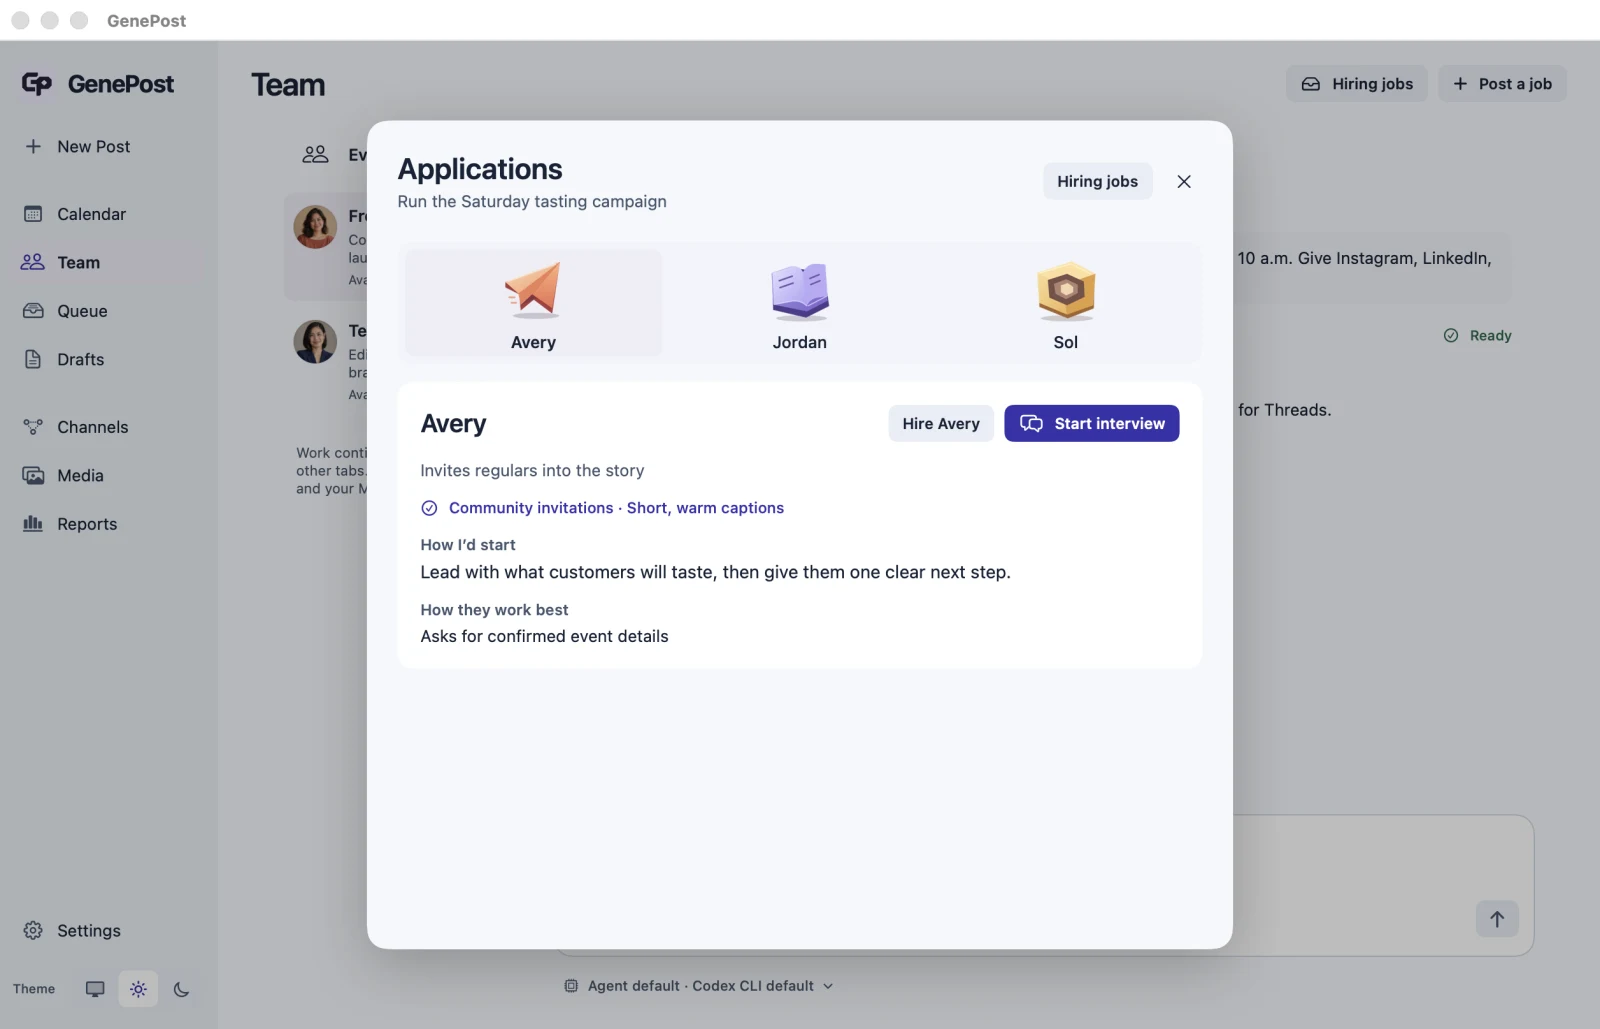
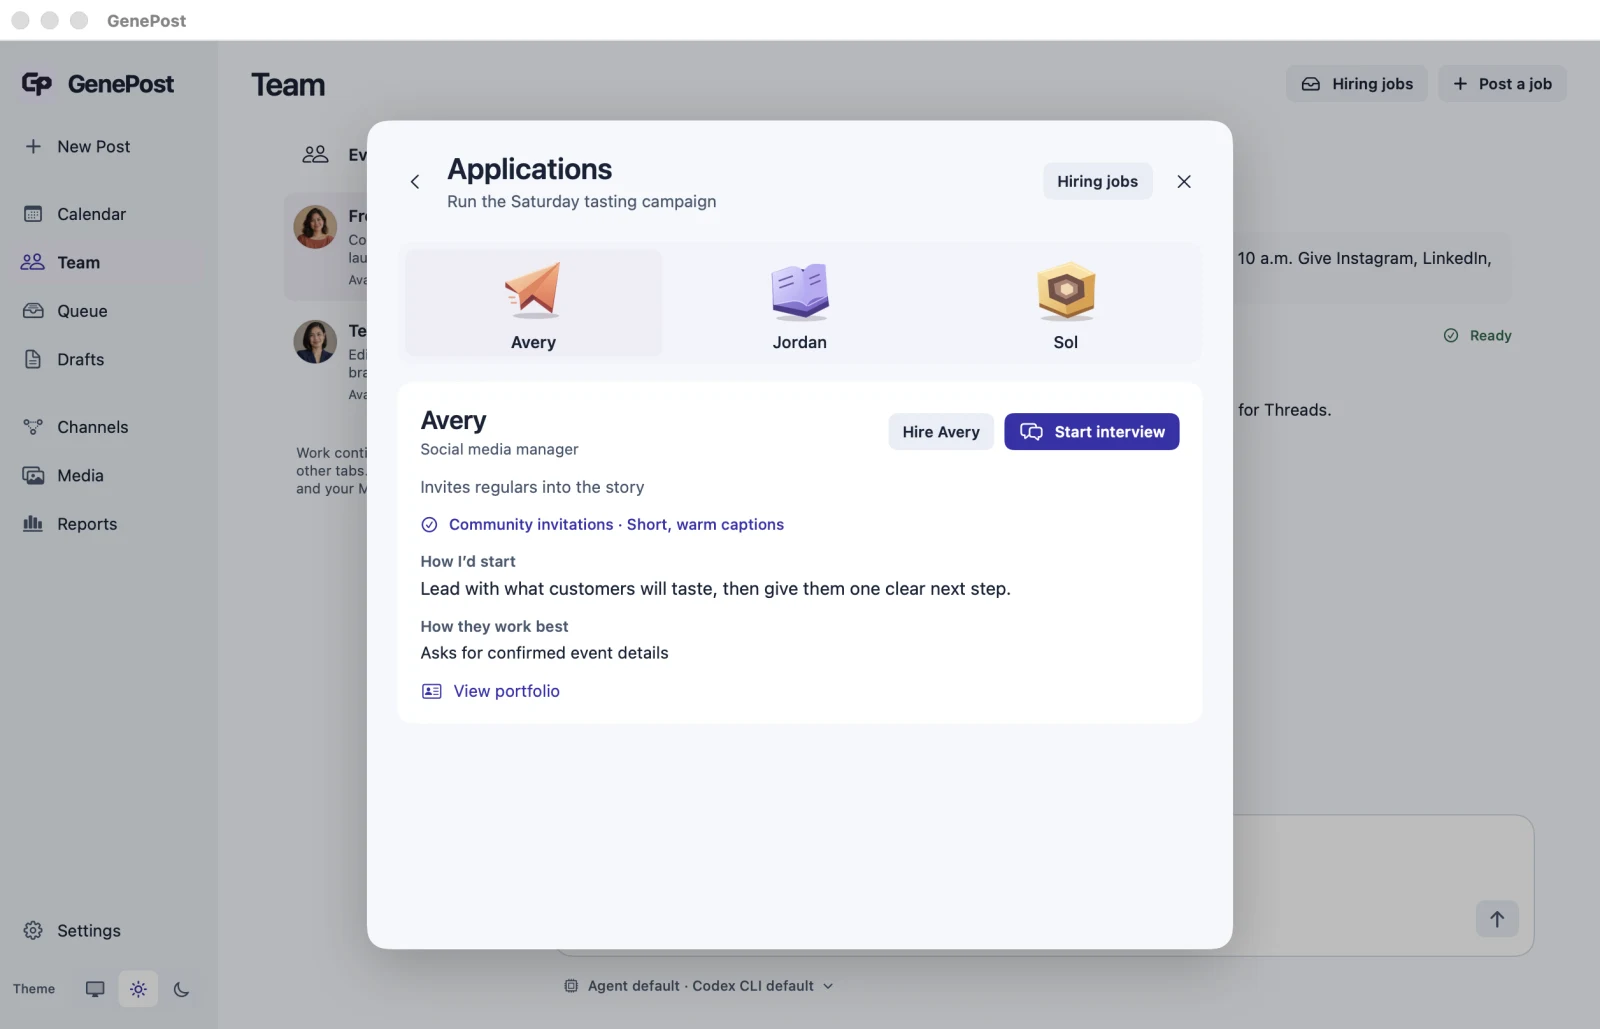
Add specialist portfolios to GenePost hiring

Changed region(s): [[0.25, 0.4043, 0.625, 0.6842], [0.5625, 0.3732, 0.75, 0.4354], [0.25, 0.1555, 0.4375, 0.2177]]

diff --git a/assets/site.js b/assets/site.js
@@ -12,14 +12,7 @@ const screens = [
   ['settings', 'Settings', 'settings'],
 ];
 const platformNames = { instagram: 'Instagram', linkedin: 'LinkedIn', threads: 'Threads', facebook: 'Facebook', x: 'X' };
-const candidates = [
-  { name: 'Avery', mark: 'fold', specialty: 'Community copy', sample: 'I’d lead with what people can do together, then give them one clear way to join.' },
-  { name: 'Jordan', mark: 'folio', specialty: 'Founder stories', sample: 'I’d ask for one moment from your day that explains why you’re doing this.' },
-  { name: 'Quinn', mark: 'spark', specialty: 'Short hooks', sample: 'I’d write three first lines and keep the one you’d actually say out loud.' },
-  { name: 'Mika', mark: 'grid', specialty: 'Content planning', sample: 'I’d plan the announcement and reminder together so each post has a purpose.' },
-  { name: 'Sol', mark: 'lens', specialty: 'Visual direction', sample: 'I’d choose one photo that shows the work, then write a caption that adds context.' },
-  { name: 'Remy', mark: 'reply', specialty: 'Community replies', sample: 'I’d turn the questions people keep asking into short, useful replies in your voice.' },
-];
+const candidates = JSON.parse(document.querySelector('#demo-specialists').textContent);
 const campaigns = {
   coffee: {
     name: 'Morrow Coffee', idea: 'Invite people to Saturday’s coffee tasting', job: 'Tasting campaign',
@@ -120,6 +113,9 @@ const walkthrough = [
   ['Open Team', '.demo-sidebar [data-value="team"]', { chapter: 'hire' }],
   ['Post a job', '[data-action="post-job"]'],
   ['Post the role', '[data-submit="post-role"] button[type="submit"]', { hold: 2050 }],
+  ['Browse portfolios', '[data-action="browse-portfolios"]', { hold: 1000 }],
+  ['Review sample work', '[data-action="select-specialist"][data-value="Sol"]', { hold: 2000 }],
+  ['Return to job', '[data-action="close-portfolios"]', { hold: 750 }],
   ['Review applications', '[data-action="review-applications"]', { hold: 1150 }],
   ['Compare applicants', '[data-action="candidate"][data-value="Jordan"]', { hold: 1650 }],
   ['Start interview', '[data-action="interview"]', { hold: 1200 }],
@@ -196,6 +192,13 @@ function mountDemo(root, preview = false) {
   const heading = (title, extra = '') => '<div class="app-heading"><h2>' + title + '</h2>' + extra + '</div>';
   const brand = () => '<span class="app-brand">' + escapeHTML(state.campaign.name) + '</span>';
   const empty = (glyph, text, button = '') => '<div class="app-empty">' + icon(glyph) + '<p>' + text + '</p>' + button + '</div>';
+  const availableSpecialists = () => candidates.filter(person => !state.team.some(member => member.person.name === person.name));
+
+  function hiringCandidate() {
+    const job = state.hiring;
+    const name = state.hireStep === 'interview' ? job.interviewing : state.hireStep === 'portfolios' ? job.portfolio : job.selected;
+    return candidates.find(person => person.name === name);
+  }
   const upload = () => '<label class="app-button upload">' + icon('upload') +
     'Import media<input type="file" accept="image/*,video/*"></label>';
 
@@ -267,10 +270,11 @@ function mountDemo(root, preview = false) {
             '<div><strong>' + job.applicants.length + ' applications received</strong><small>' + job.applicants.map(person => person.name).join(' · ') + '</small></div>' +
             action('review-applications', 'Review applications', { glyph: 'right', kind: 'app-primary' }) + '</div>'
           : '<p class="application-wait"><span class="application-spinner" aria-hidden="true"></span>Waiting for applications…</p>') +
-        action('team-home', 'Back to Team', { glyph: 'left', kind: 'job-back' }) + '</div>';
+        '<div class="app-row receipt-actions">' + action('team-home', 'Back to Team', { glyph: 'left', kind: 'job-back' }) +
+        action('browse-portfolios', 'Browse portfolios', { glyph: 'drafts' }) + '</div></div>';
     }
     if (state.hireStep === 'applicants') {
-      const candidate = job.applicants.find(person => person.name === job.selected);
+      const candidate = hiringCandidate();
       return heading('Applications', brand()) +
         '<div class="job-context"><p>' + escapeHTML(job.title) + '</p>' +
         action('job-receipt', 'Job post', { glyph: 'left', kind: 'job-back' }) + '</div>' +
@@ -278,24 +282,26 @@ function mountDemo(root, preview = false) {
         job.applicants.map(person => action('candidate', avatar(person) + '<strong>' + person.name + '</strong>',
           { value: person.name, pressed: person.name === candidate.name, kind: 'candidate' })).join('') +
         '</div><section class="candidate-profile" aria-label="Applicant profile">' +
-        '<div class="candidate-meta"><h3>' + candidate.name + '</h3><span>' + candidate.specialty + '</span></div>' +
-        '<div class="candidate-sample"><span>How I’d start</span><p>' + candidate.sample + '</p></div>' +
+        '<div class="candidate-meta"><h3>' + candidate.name + '</h3><span>' + candidate.role + '</span></div>' +
+        '<div class="candidate-sample"><span>How I’d start</span><p>' + escapeHTML(candidate.sampleApproach) + '</p></div>' +
+        '<div class="app-row candidate-actions">' + action('browse-portfolios', 'View portfolio', { value: candidate.name, glyph: 'drafts', kind: 'job-back' }) +
         '<div class="app-row job-actions">' + action('hire', 'Hire ' + candidate.name) +
         action('interview', job.interviews[candidate.name]?.turns.length ? 'Open interview' : 'Start interview',
-          { glyph: 'right', kind: 'app-primary' }) + '</div></section></div>';
+          { glyph: 'right', kind: 'app-primary' }) + '</div></div></section></div>';
     }
+    if (state.hireStep === 'portfolios') return portfolios(job);
     if (state.hireStep === 'interview') {
-      const candidate = job.applicants.find(person => person.name === job.selected);
+      const candidate = hiringCandidate();
       const { draft, turns } = job.interviews[candidate.name];
       const directions = turns.filter(turn => turn.direction);
       return heading('Interview ' + candidate.name, brand()) +
         '<div class="job-context"><p>' + escapeHTML(job.title) + '</p>' +
-        action('review-applications', 'Applications', { glyph: 'left', kind: 'job-back' }) + '</div>' +
+        action('close-interview', job.interviewFrom === 'portfolios' ? 'Portfolios' : 'Applications', { glyph: 'left', kind: 'job-back' }) + '</div>' +
         '<div class="interview-thread app-stack" aria-label="Sample interview">' +
         '<div class="interview-line">' + avatar(candidate) + '<p>What voice should I use for this role?</p></div>' +
         turns.map((turn, index) => '<div class="interview-line interview-you"><p>' + escapeHTML(turn.message) + '</p></div>' +
           '<div class="interview-line"' + (index === turns.length - 1 ? ' data-latest-reply' : '') + '>' +
-          avatar(candidate) + '<p>' + turn.reply + '</p></div>').join('') +
+          avatar(candidate) + '<p>' + escapeHTML(turn.reply) + '</p></div>').join('') +
         (directions.length ? '<div class="interview-setup"><strong>' + icon('check') + 'Setup for this role</strong><ul>' +
           directions.map(turn => '<li>' + escapeHTML(turn.message) + '</li>').join('') + '</ul></div>' : '') + '</div>' +
         '<form class="app-stack interview-form" data-submit="interview-message">' +
@@ -313,10 +319,28 @@ function mountDemo(root, preview = false) {
       (state.team.length
         ? '<div class="team-list">' + state.team.map(({ person, directions }) =>
           '<div class="app-list-row">' + avatar(person) + '<span><strong>' + person.name + '</strong><small>' +
-          person.specialty + '</small>' + (directions.length ? '<small class="team-direction">' + icon('check') +
+          person.role + '</small>' + (directions.length ? '<small class="team-direction">' + icon('check') +
             escapeHTML(directions.join(' ')) + '</small>' : '') + '</span></div>'
         ).join('') + '</div>' + action('screen', 'Brief teammate', { value: 'compose', glyph: 'right' })
         : job ? '' : empty('team', 'Build your team'));
+  }
+
+  function portfolios(job) {
+    const specialist = hiringCandidate();
+    const art = specialist.portfolioImage ? '<img src="' + assets + 'team-marks/' + specialist.portfolioImage +
+      '" alt="Coffee tasting bowls beside bags of beans" width="320" height="180">' : '';
+    return heading('Specialist portfolios', brand()) +
+      '<div class="job-context"><p>' + escapeHTML(job.title) + '</p>' +
+      action('close-portfolios', job.portfoliosFrom === 'applicants' ? 'Applications' : 'Job post', { glyph: 'left', kind: 'job-back' }) + '</div>' +
+      '<div class="applicant-panel"><div class="applicants specialists" role="group" aria-label="Available specialists">' +
+      availableSpecialists().map(person => action('select-specialist', avatar(person) + '<strong>' + person.name + '</strong><small>' + person.role + '</small>',
+        { value: person.name, pressed: person.name === specialist.name, kind: 'candidate' })).join('') + '</div>' +
+      '<section class="candidate-profile" aria-label="Specialist profile"><div class="portfolio-heading"><div class="candidate-meta"><h3>' + specialist.name +
+      '</h3><span>' + specialist.specialty + '</span></div><div class="app-row job-actions">' +
+      action('hire', 'Hire ' + specialist.name) + action('interview', job.interviews[specialist.name] ? 'Open interview' : 'Invite to interview',
+        { glyph: 'right', kind: 'app-primary' }) + '</div></div>' +
+      '<div class="portfolio-work' + (art ? ' with-art' : '') + '">' + art + '<div><span>Sample work</span><h4>' +
+      escapeHTML(specialist.portfolioTitle) + '</h4><p>' + escapeHTML(specialist.portfolioSample) + '</p></div></div></section></div>';
   }
 
   function review() {
@@ -432,9 +456,7 @@ function mountDemo(root, preview = false) {
       if (button.dataset.value === view) button.setAttribute('aria-current', 'page');
       else button.removeAttribute('aria-current');
       if (button.dataset.value === 'team') {
-        const unread = Boolean(state.hiring?.ready && !state.hiring.reviewed);
-        button.toggleAttribute('data-applications-unread', unread);
-        button.setAttribute('aria-label', unread ? 'Team, new applications' : 'Team');
+        updateApplicationBadge(button);
       }
     });
     workspace.innerHTML = views[state.view]() +
@@ -460,6 +482,12 @@ function mountDemo(root, preview = false) {
         { duration: 210, easing: 'cubic-bezier(.16, 1, .3, 1)' }
       );
     }
+  }
+
+  function updateApplicationBadge(button = sidebar.querySelector('[data-value="team"]')) {
+    const unread = Boolean(state.hiring?.ready && !state.hiring.reviewed);
+    button.toggleAttribute('data-applications-unread', unread);
+    button.setAttribute('aria-label', unread ? 'Team, new applications' : 'Team');
   }
 
   function screen(view) {
@@ -574,10 +602,11 @@ function mountDemo(root, preview = false) {
         state.error = 'Add a job title and description';
         return draw();
       }
-      const ranked = [...new Set([...state.campaign.shortlist, ...candidates.map(person => person.name)])];
-      const applicants = ranked.filter(name => !state.team.some(member => member.person.name === name))
-        .slice(0, 3).map(name => candidates.find(person => person.name === name));
-      const job = { title, description, applicants, selected: applicants[0].name, ready: false, reviewed: false, interviews: {} };
+      const available = availableSpecialists();
+      const ranked = [...new Set([...state.campaign.shortlist, ...available.map(person => person.name)])];
+      const applicants = ranked.map(name => available.find(person => person.name === name)).filter(Boolean).slice(0, 3);
+      const job = { title, description, applicants, selected: applicants[0].name, portfolio: available[0].name,
+        ready: false, reviewed: false, interviews: {} };
       const postedWorkspace = state;
       postedWorkspace.hiring = job;
       postedWorkspace.hireStep = 'posted';
@@ -587,10 +616,8 @@ function mountDemo(root, preview = false) {
         job.ready = true;
         if (state !== postedWorkspace) return;
         announcements.textContent = job.applicants.length + ' applications received for ' + job.title;
-        if (state.view !== 'team') {
-          const teamButton = sidebar.querySelector('[data-value="team"]');
-          teamButton.setAttribute('data-applications-unread', '');
-          teamButton.setAttribute('aria-label', 'Team, new applications');
+        if (state.view !== 'team' || !['posted', ''].includes(state.hireStep)) {
+          updateApplicationBadge();
           return;
         }
         const arrival = state.hireStep === 'posted' ? '.application-arrival' : '.team-job';
@@ -611,12 +638,28 @@ function mountDemo(root, preview = false) {
       state.hiring.selected = name;
       draw({ reveal: '.candidate-profile' });
     },
+    'browse-portfolios': name => {
+      const job = state.hiring;
+      if (name) job.portfolio = name;
+      job.portfoliosFrom = state.hireStep;
+      state.hireStep = 'portfolios';
+      draw({ moved: true });
+    },
+    'select-specialist': name => {
+      if (state.hiring.portfolio === name) return;
+      state.hiring.portfolio = name;
+      draw({ reveal: '.portfolio-work' });
+    },
+    'close-portfolios': () => { state.hireStep = state.hiring.portfoliosFrom; draw({ moved: true }); },
     interview: () => {
       const job = state.hiring;
-      job.interviews[job.selected] ??= { draft: '', turns: [] };
+      job.interviewing = hiringCandidate().name;
+      job.interviews[job.interviewing] ??= { draft: '', turns: [] };
+      job.interviewFrom = state.hireStep;
       state.hireStep = 'interview';
       draw({ moved: true });
     },
+    'close-interview': () => { state.hireStep = state.hiring.interviewFrom; draw({ moved: true }); },
     'sample-direction': () => {
       const field = workspace.querySelector('[data-field="interviewMessage"]');
       if (field.value.trim()) return field.focus();
@@ -626,12 +669,12 @@ function mountDemo(root, preview = false) {
     },
     'interview-message': () => {
       const job = state.hiring;
-      const interview = job.interviews[job.selected];
+      const interview = job.interviews[job.interviewing];
       const message = interview.draft.trim();
       if (!message) return;
-      const candidate = job.applicants.find(person => person.name === job.selected);
+      const candidate = hiringCandidate();
       const direction = !message.endsWith('?') && !/^(how|what|where|why|when|can|could|would|will|do|does|is|are)\b/i.test(message);
-      const reply = direction ? 'I’ll carry that direction into the role.' : candidate.sample;
+      const reply = direction ? 'I’ll carry that direction into the role.' : candidate.sampleApproach;
       interview.turns.push({ message, direction, reply });
       interview.draft = '';
       draw({ reveal: '[data-latest-reply]' });
@@ -641,7 +684,7 @@ function mountDemo(root, preview = false) {
     },
     hire: () => {
       const job = state.hiring;
-      const person = job.applicants.find(candidate => candidate.name === job.selected);
+      const person = hiringCandidate();
       const directions = (job.interviews[person.name]?.turns ?? []).filter(turn => turn.direction).map(turn => turn.message);
       state.team.push({ person, directions });
       state.hiring = null;
@@ -912,7 +955,7 @@ function mountDemo(root, preview = false) {
   workspace.addEventListener('input', event => {
     const { field } = event.target.dataset;
     if (field === 'caption') state.captions[state.platform] = event.target.value;
-    else if (field === 'interviewMessage') state.hiring.interviews[state.hiring.selected].draft = event.target.value;
+    else if (field === 'interviewMessage') state.hiring.interviews[state.hiring.interviewing].draft = event.target.value;
     else if (field) state[field] = event.target.value;
   });
   workspace.addEventListener('change', event => {

diff --git a/index.html b/index.html
@@ -13,8 +13,8 @@
   <meta property="og:image" content="https://selwynuy.github.io/GenePost/assets/calendar.webp">
   <link rel="icon" href="./assets/genepost.svg?v=531d221c39" type="image/svg+xml">
   <link rel="stylesheet" href="./assets/site.css?v=4427fadfb1">
-  <link rel="stylesheet" href="./assets/demo.css?v=8e713fc2b6">
-  <script src="./assets/site.js?v=823d8f73db" defer></script>
+  <link rel="stylesheet" href="./assets/demo.css?v=4bd09af038">
+  <script src="./assets/site.js?v=6286f7fb3e" defer></script>
 </head>
 <body>
   <a class="skip" href="#main">Skip to content</a>
@@ -141,6 +141,7 @@
   </div>
 </section>
 
+<script type="application/json" id="demo-specialists">[{"name": "Avery", "mark": "fold", "role": "Social media manager", "specialty": "Plans launches across channels", "sampleApproach": "I’d find the one action we want readers to take, then shape the announcement, reminder, and follow-up around it.", "portfolioTitle": "One tasting, three posts", "portfolioSample": "Monday · Instagram\nShow the tasting table and invite people to book a seat.\n\nThursday · LinkedIn\nTell the founder’s story behind choosing the three roasts.\n\nSaturday · Threads\nAsk which coffee people would try first."}, {"name": "Jordan", "mark": "folio", "role": "Copywriter", "specialty": "Writes in the founder’s voice", "sampleApproach": "I’d ask for one moment from your day that explains why you’re doing this.", "portfolioTitle": "LinkedIn · Founder story", "portfolioSample": "I sketch the path before I design the screen.\n\nOn paper, crossing out a step takes five seconds. That’s when I catch the parts I’d otherwise spend hours polishing."}, {"name": "Quinn", "mark": "spark", "role": "Content creator", "specialty": "Scripts short-form posts", "sampleApproach": "I’d outline three openings and turn the strongest one into a short script with a simple shot list.", "portfolioTitle": "Reel · Book a court", "portfolioSample": "0–3s · Show the open slots. “A free court this Saturday?”\n\n3–10s · Tap a time and show the booking screen.\n\n10–15s · End on the confirmed next step."}, {"name": "Mika", "mark": "grid", "role": "Content strategist", "specialty": "Builds repeatable series", "sampleApproach": "I’d plan the announcement and follow-up together so each post has a purpose.", "portfolioTitle": "A week around an app update", "portfolioSample": "Show it · Open the new calendar and point out the week view.\n\nTeach it · Go from a scheduled post to its feed preview.\n\nAsk about it · Find out what people want to see while planning."}, {"name": "Sol", "mark": "lens", "role": "Visual designer", "specialty": "Creates briefs for post images", "sampleApproach": "I’d choose one visual that shows the actual subject, then write a caption that adds context.", "portfolioTitle": "Instagram · Coffee tasting", "portfolioSample": "Lead with the tasting bowls. Use soft window light and keep the product visible in a narrow feed crop.", "portfolioImage": "portfolio-tasting.jpg"}, {"name": "Remy", "mark": "reply", "role": "Community manager", "specialty": "Writes helpful replies", "sampleApproach": "I’d turn the questions people keep asking into short, useful replies in your voice.", "portfolioTitle": "Replies for the tasting", "portfolioSample": "“How do I save a seat?”\nSend us a message with your group size and we’ll check what’s open.\n\n“Can I come alone?”\nAbsolutely. Let us know you’re coming solo and we’ll check for one seat."}]</script>
 <template id="demo-app-template">
   <div class="demo-app" data-theme="dark">
     <div class="demo-titlebar">

diff --git a/assets/demo.css b/assets/demo.css
@@ -226,7 +226,10 @@
 .agent-chip { display: inline-flex; align-items: center; gap: 5px; font-size: 12px; font-weight: 640; color: var(--app-muted); }
 .agent-chip .agent-avatar { width: 25px; height: 25px; }
 .job-form, .job-receipt, .applicant-panel, .interview-thread, .interview-form { width: 100%; max-width: 560px; margin-inline: auto; }
+.applicant-panel { container-type: inline-size; }
 .job-actions { justify-content: flex-end; }
+.receipt-actions, .candidate-actions, .portfolio-heading { justify-content: space-between; }
+.portfolio-heading { display: flex; align-items: center; flex-wrap: wrap; gap: 8px; }
 .posted-role, .application-arrival, .candidate-profile, .interview-setup {
   border-radius: 10px; padding: 13px; background: var(--app-fill); overflow-wrap: anywhere;
 }
@@ -259,6 +262,12 @@
 .demo-app .candidate[aria-pressed="true"] { background: var(--app-selection); color: var(--app-ink); }
 .candidate .agent-avatar { width: min(100%, 60px); height: 60px; object-fit: contain; transition: transform 200ms var(--ease-arrive); }
 .candidate strong { font-size: 12px; font-weight: 670; }
+.demo-app .specialists .candidate { min-height: 75px; padding: 6px 3px; line-height: 1.15; }
+.specialists .candidate .agent-avatar { width: 37px; height: 37px; }
+.specialists .candidate small { color: var(--app-muted); font-size: 11px; text-wrap: balance; }
+@container (min-width: 485px) {
+  .specialists { grid-template-columns: repeat(auto-fit, minmax(74px, 1fr)); }
+}
 @media (hover: hover) and (pointer: fine) and (prefers-reduced-motion: no-preference) {
   .candidate:hover .agent-avatar { transform: translateY(-2px); }
 }
@@ -271,6 +280,12 @@
 .candidate-meta { display: flex; flex-wrap: wrap; gap: 3px 8px; align-items: baseline; }
 .candidate-meta span, .candidate-sample > span { color: var(--app-muted); font-size: 12px; }
 .candidate-sample p { color: var(--app-ink); font-size: 13px; }
+.portfolio-work { display: grid; gap: 10px; padding: 10px 11px; border-radius: 8px; background: var(--app-bg); }
+.portfolio-work.with-art { grid-template-columns: minmax(84px, .85fr) minmax(0, 1.2fr); align-items: center; }
+.portfolio-work > img { width: 100%; height: auto; max-height: 135px; object-fit: contain; border-radius: 6px; }
+.portfolio-work span { color: var(--app-muted); font-size: 11px; }
+.portfolio-work h4 { color: var(--app-ink); margin-block: 2px 5px; font-size: 14px; }
+.portfolio-work p { color: var(--app-ink); white-space: pre-wrap; font-size: 12px; line-height: 1.4; }
 .interview-thread { max-height: 205px; overflow: auto; padding: 1px 2px; scrollbar-color: var(--app-line) transparent; }
 .interview-line { display: flex; align-items: start; gap: 7px; font-size: 13px; overflow-wrap: anywhere; }
 .interview-line .agent-avatar { width: 27px; height: 27px; }

diff --git a/docs/index.html b/docs/index.html
@@ -74,6 +74,7 @@
       <ol>
         <li>Open <strong>Team → Post a job</strong>. Describe the role and choose its brand group and channels.</li>
         <li>When Team shows new applications, open a profile to read their strengths and approach.</li>
+        <li>Open <strong>Browse portfolios</strong> on the posted job to review a specialist’s sample work. You can invite them to interview or hire them directly while applications are coming in.</li>
         <li>Interview a candidate and tell them how you want them to work. Review <strong>Setup for this role</strong> before hiring. Those directions and rules carry into the agent’s profile.</li>
         <li>Assign a task in Team. Choose <strong>Draft posts</strong>, <strong>Think &amp; plan</strong>, or <strong>Create image</strong>. A brand group carries its own voice and facts.</li>
       </ol>
